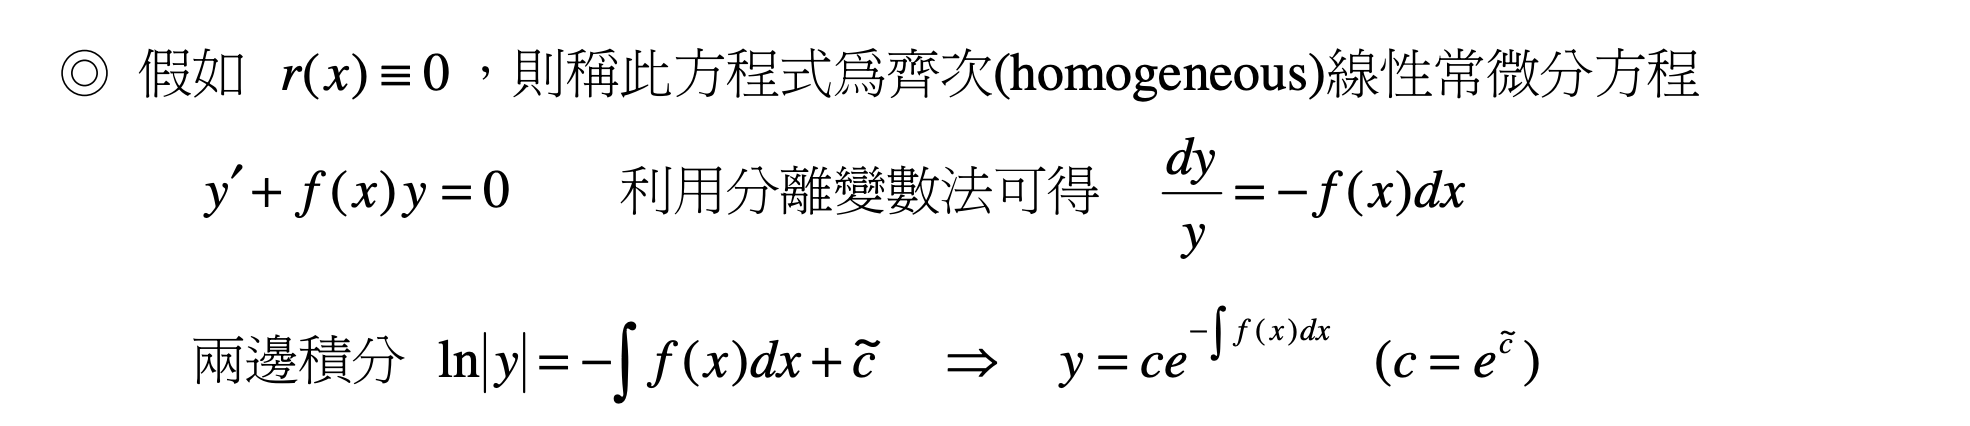
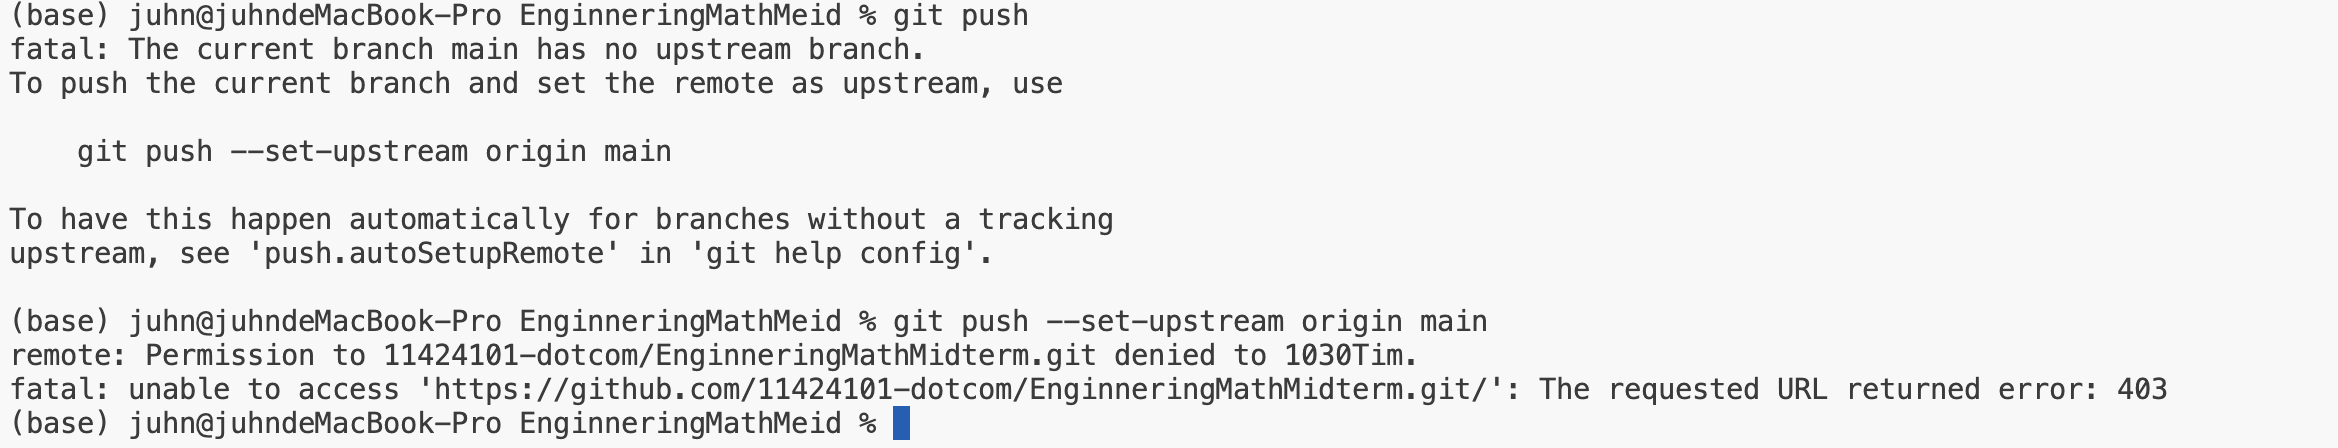
modify-branch

diff --git a/README.md b/README.md
@@ -1,30 +1,39 @@
-# EnginneringMath
+# EnginneringMathMidterm
 
-## New version
-Ord image i have cd to image files <br>
-modify math with markdowm 
+`11424101陳閔駿`
 
-- [x] Two Home
-- [x] Read Enginnering Marh
-- [x] Note
-- [x] Markdown
+## Process
+1. Read the  topic
+2. Read all class pages
+3. think the question Laplace transform？
+4. I can't not because is difficult. than i have ask GPT
 
-<br>
-last week i have writh by First-Order-11
-<br>
-This week i have writh by
-Second-order-7
-<br>
+## Question GPT
+1. fast my token is `help me over this homework use the Laplace transform`
+2. GPT output `Second-Order Differential Equations `
+3. i thank is't `Laplace transform`
 
-## the qustion and solve
-I can't sely myself over<br> this homework think  because
-my math grade is high school<br>
-so i have help GPT use of 60% in HomeWork
+## version
+YYYY/MM/DD 
 
+- 2026/4/18 fast use cmd git push to github
+- 2026/4/19 modify latex to github
+- 2026/4/19 branch to new-report
 
-## push to github
-```
+## Code
+
+```cmd
+git checkout -b "Midterm"
 git add .
-git commit -m "message"
-git push
+git commit -m "modify"
+git push --set-upstream origin Midterm
 ```
+
+
+## Error and Debug
+
+- In Vscode can use LaTex but to Github can't
+`ex: you can as < br > but in Vscode`
+
+
+![/image.png](image.png)
